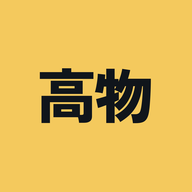
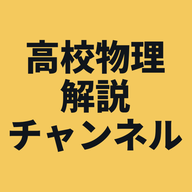
ホーム画面アイコンを「高校物理解説チャンネル」11文字に変更
高校物理／解説／チャンネル の4-2-5、3行組み。語の切れ目で折り、
文字サイズは全行そろえる（最長行のチャンネルが基準）。
アイコンの絵と apple-mobile-web-app-title の文言が一致する。

11文字は正方形いっぱいに組むとマスカブルの安全圏（中央80%の円）を
11.5%はみ出す。Androidで角が切られるのを避けるため、通常版と
マスカブル版を分けた。

  apple-touch-icon.png / icon-192.png / icon-512.png … purpose "any"
  icon-512-maskable.png（新規）                       … purpose "maskable"（円外0.0%）

favicon.ico(16/32/48) と og-image.png は対象外。favicon は「高物」のまま。
tools/make_icons.py で作り直せる（--check で実測のみ）。

Changed region(s): [[0.0312, 0.1875, 0.9688, 0.8125]]

diff --git a/tools/make_icons.py b/tools/make_icons.py
@@ -1,0 +1,201 @@
+#!/usr/bin/env python3
+# -*- coding: utf-8 -*-
+"""ホーム画面アイコン（apple-touch-icon / PWA）を生成する。
+
+  python3 tools/make_icons.py            # リポジトリ直下に書き出す
+  python3 tools/make_icons.py --check    # 書き出さず、実測値だけ出す
+
+対象は 180 / 192 / 512px の3枚と、マスカブル専用の512px。
+favicon.ico(16/32/48) と og-image.png はこのスクリプトの対象外（手を触れない）。
+
+──────────────────────────────────────────────
+決まっていること（2026-08-26に確定）
+──────────────────────────────────────────────
+・文字は「高校物理解説チャンネル」11文字を全部入れる。
+・折り方は 4/2/5 の3行。語の切れ目で折る（高校物理／解説／チャンネル）。
+  11は素数なので均等には割れない。どこで折るかが見た目そのものを決めるので、
+  行の文字数を勝手に変えないこと。
+・文字サイズは全行そろえる。最長行（チャンネル＝5文字）が基準になる。
+・色は元のアイコンから実測した値。BG はサイトの --accent、INK は --bg と同じ。
+
+⚠ 1文字ずつ外接矩形いっぱいに拡大してはいけない。画数の少ない「ン」「ル」が
+   漢字より大きく見え、字面が揃わなくなる。行を文字列のまま描き、
+   書体が持つ字面比率に任せること（下の render がそうしている）。
+
+──────────────────────────────────────────────
+マスカブルについて
+──────────────────────────────────────────────
+Android のアダプティブアイコンは、中央の直径80%の円だけを安全圏として扱い、
+外側は端末の形に合わせて切り落とす。11文字を正方形いっぱいに組むと必ず
+はみ出すので、通常版とマスカブル版を分けている。
+
+  icon-192.png / icon-512.png / apple-touch-icon.png … purpose "any"
+  icon-512-maskable.png                              … purpose "maskable"
+
+site.webmanifest 側の purpose もこの分担に合わせてあること。通常版に
+"maskable" を付け直すと、角の文字が切られる状態に戻る。
+"""
+import argparse
+import sys
+from pathlib import Path
+
+try:
+    from PIL import Image, ImageDraw, ImageFont
+except ImportError:
+    sys.exit("Pillow が要ります: python3 -m pip install --user Pillow")
+
+REPO = Path(__file__).resolve().parent.parent
+
+LINES = ["高校物理", "解説", "チャンネル"]
+BG = (244, 201, 93)     # サイトの --accent
+INK = (16, 21, 27)      # サイトの --bg
+FONT = str(Path.home() / "Library/Fonts/NotoSansCJKjp-Black.otf")
+
+BLOCK = 0.90            # 正方形版：一辺に対する文字ブロックの割合
+LINE_GAP = 0.10         # 行間（文字サイズに対する割合）
+SAFE_R = 0.40           # マスカブル安全圏の半径（一辺に対する割合）
+SS = 4                  # スーパーサンプリング倍率
+F0 = 200                # 幅を測るための基準サイズ
+
+_fonts = {}
+_probe = ImageDraw.Draw(Image.new("L", (8, 8)))
+
+
+def _font(px):
+    px = max(4, int(px))
+    if px not in _fonts:
+        _fonts[px] = ImageFont.truetype(FONT, px)
+    return _fonts[px]
+
+
+def _line_w(text, px):
+    return _probe.textlength(text, font=_font(px))
+
+
+def render(size, maskable=False):
+    """size×size のアイコンを描く。
+
+    maskable=True のときは、文字ブロックの対角が安全圏の円に収まるまで縮める。
+    正方形に合わせるのではなく円に合わせるのがポイントで、四隅が切られなくなる。
+    """
+    S = size * SS
+    target = S * BLOCK
+
+    # 全行同じ文字サイズ。最長行が target に収まるように決める。
+    f = target * F0 / max(_line_w(l, F0) for l in LINES)
+
+    # 余裕を持ったキャンバスに組んでから、インクの外接矩形で切り出す。
+    # こうすると行数や仮名漢字の混ざり方によらず光学的な中心が合う。
+    pad = int(S * 1.2)
+    layer = Image.new("L", (pad * 2, pad * 2), 0)
+    d = ImageDraw.Draw(layer)
+    y = pad * 0.5
+    for l in LINES:
+        d.text((pad - _line_w(l, f) / 2, y), l, font=_font(f), fill=255)
+        y += f * (1 + LINE_GAP)
+
+    ink = layer.crop(layer.getbbox())
+    w, h = ink.size
+    if maskable:
+        # 半対角が安全圏の半径に収まる倍率
+        k = (S * SAFE_R) / ((w ** 2 + h ** 2) ** 0.5 / 2)
+    else:
+        k = target / max(w, h)
+    ink = ink.resize((max(1, round(w * k)), max(1, round(h * k))), Image.LANCZOS)
+
+    img = Image.new("RGB", (S, S), BG)
+    img.paste(INK, ((S - ink.size[0]) // 2, (S - ink.size[1]) // 2), ink)
+    return img.resize((size, size), Image.LANCZOS)
+
+
+# ── 実測 ────────────────────────────────────────────────────────────
+def _runs(seq):
+    out, cur, n = [], seq[0], 0
+    for v in seq:
+        if v == cur:
+            n += 1
+        else:
+            out.append((cur, n)); cur, n = v, 1
+    out.append((cur, n))
+    return out
+
+
+def measure(im):
+    """線の太さと画数どうしの隙間を px で測る。
+
+    ⚠ 最小値で測ってはいけない。斜線の先端とアンチエイリアスの縁が必ず1pxの
+       走査線を作るので、512pxの明らかに読めるアイコンと16pxの潰れた塊が
+       同じ「最小1px」になる。分布の下側10%を見る。
+    """
+    g = im.convert("L")
+    mid = (sum(BG) / 3 + sum(INK) / 3) / 2
+    px = g.load()
+    W, H = g.size
+    strokes, gaps = [], []
+    for axis in range(2):
+        for a in range(W if axis == 0 else H):
+            line = [(px[a, b] if axis == 0 else px[b, a]) < mid
+                    for b in range(H if axis == 0 else W)]
+            if not any(line):
+                continue
+            rr = _runs(line)
+            for i, (val, n) in enumerate(rr):
+                if val:
+                    strokes.append(n)
+                elif 0 < i < len(rr) - 1:
+                    gaps.append(n)
+    p = lambda v, q: sorted(v)[min(len(v) - 1, int(len(v) * q / 100))] if v else 0
+    return p(strokes, 10), p(gaps, 10)
+
+
+def safe_overflow(im):
+    """安全圏の円からはみ出したインクの割合(%)。マスカブル版は 0.0 でなければならない。"""
+    S = im.size[0]
+    g = im.convert("L")
+    mid = (sum(BG) / 3 + sum(INK) / 3) / 2
+    px = g.load()
+    r2 = (S * SAFE_R) ** 2
+    c = S / 2
+    ink = out = 0
+    for y in range(S):
+        for x in range(S):
+            if px[x, y] < mid:
+                ink += 1
+                if (x - c) ** 2 + (y - c) ** 2 > r2:
+                    out += 1
+    return (out / ink * 100) if ink else 0.0
+
+
+TARGETS = [
+    ("apple-touch-icon.png", 180, False),
+    ("icon-192.png",         192, False),
+    ("icon-512.png",         512, False),
+    ("icon-512-maskable.png", 512, True),
+]
+
+
+def main():
+    ap = argparse.ArgumentParser()
+    ap.add_argument("--check", action="store_true", help="書き出さず実測だけ")
+    args = ap.parse_args()
+
+    print(f"{'ファイル':24} {'px':>4} {'線p10':>6} {'間p10':>6} {'円外':>7}")
+    print("-" * 52)
+    bad = 0
+    for name, size, maskable in TARGETS:
+        im = render(size, maskable)
+        s10, g10 = measure(im)
+        ov = safe_overflow(im)
+        print(f"{name:24} {size:>4} {s10:>6} {g10:>6} {ov:>6.1f}%")
+        if maskable and ov > 0.0:
+            print(f"    ✗ マスカブル版が安全圏をはみ出している（{ov:.1f}%）")
+            bad += 1
+        if not args.check:
+            im.save(REPO / name)
+    if not args.check:
+        print(f"\n{len(TARGETS)}枚を書き出しました。favicon.ico と og-image.png は対象外です。")
+    return 1 if bad else 0
+
+
+if __name__ == "__main__":
+    sys.exit(main())
